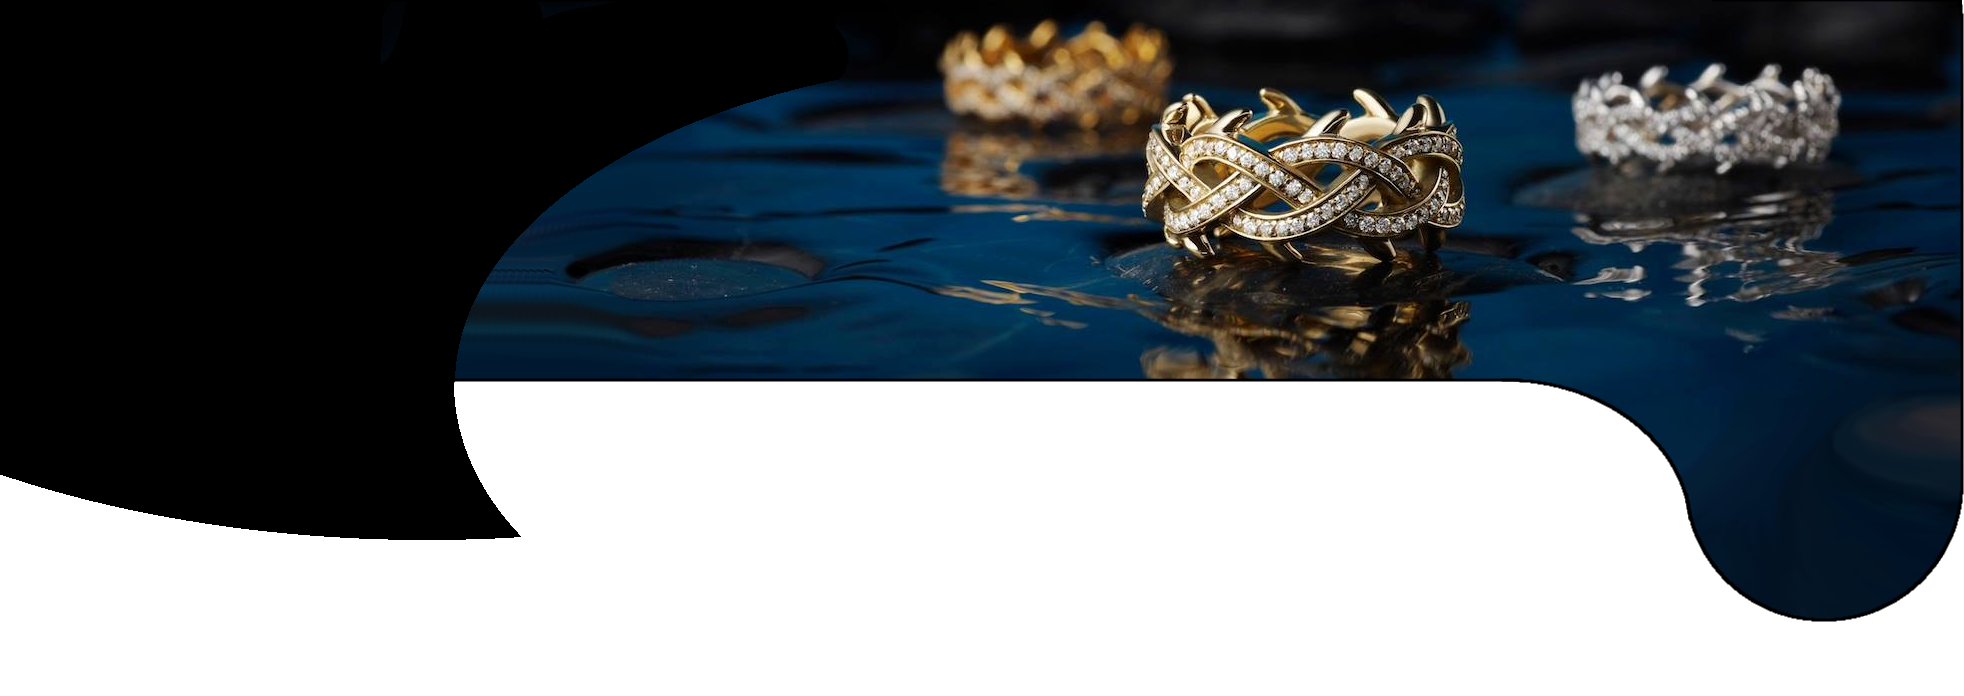
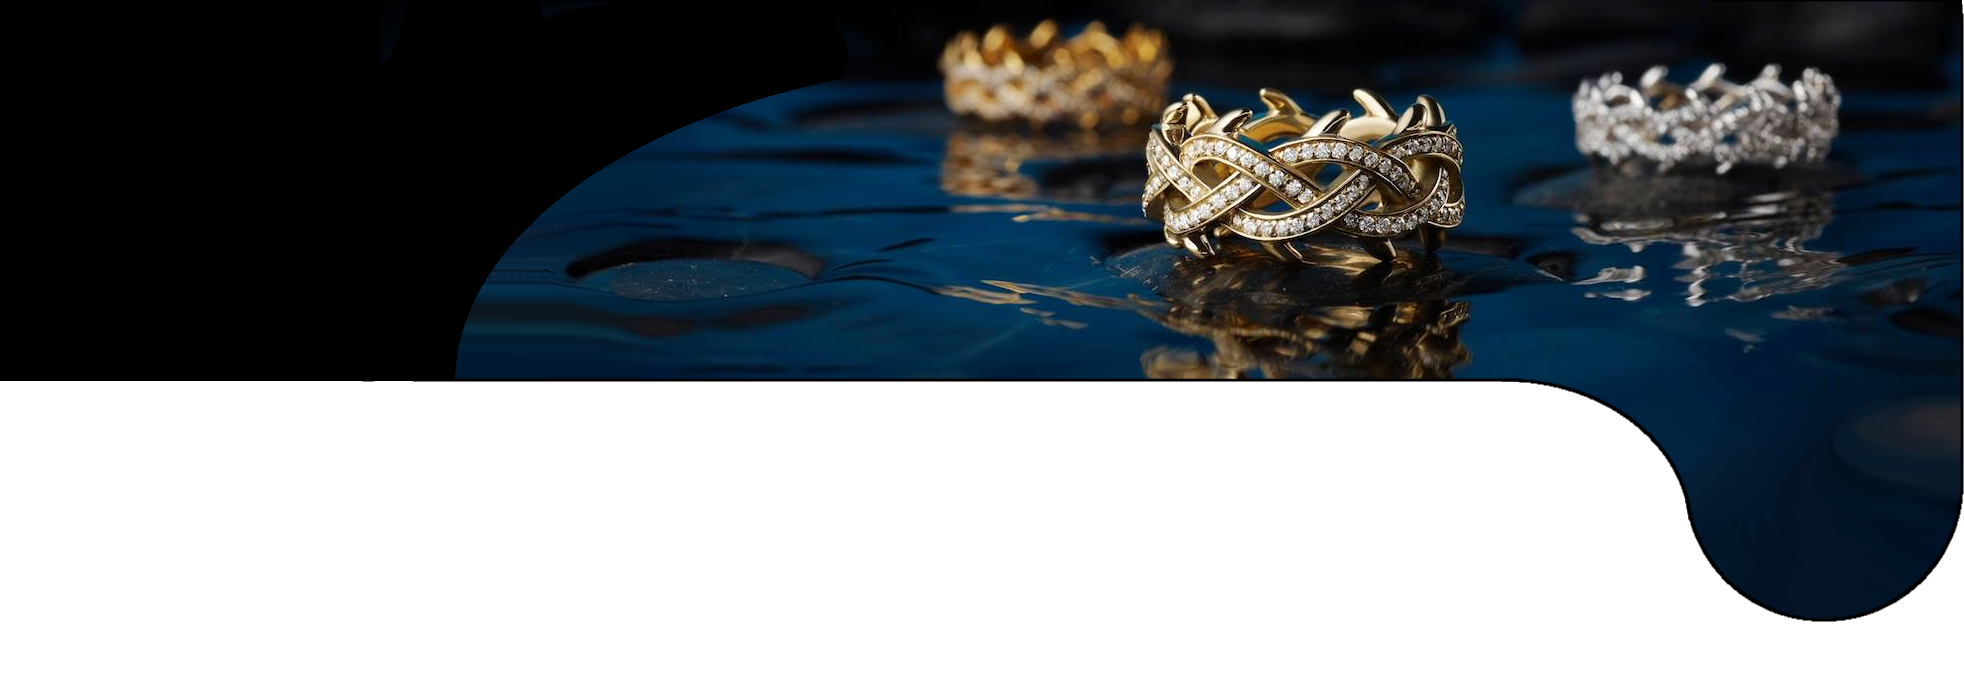
Imágen de header y menú acomodado para desktop

Changed region(s): [[0.0, 0.5431, 0.2795, 0.7845]]

diff --git a/estilos/style.css b/estilos/style.css
@@ -12,14 +12,36 @@ body {
 
 
 .header_img {
-	font-size: 0px;
-	background-image: url(../imagenes/header.png);
-	height: 590px;
-	width: auto;
-	background-position: center;
-	background-repeat: no-repeat;
-	background-size: 100%;
-	max-width: auto;
+	width: 100%;
+	height: 700px;
+	position: absolute;
+	top: 0;
+	left: 0;
+	z-index: -1;
+	background: url("../imagenes/header.png") top center no-repeat;
+	background-size: 100% auto;
+}
+
+header {
+	padding-bottom: 3%
+}
+
+@media ( max-width: 1190px ) {
+
+	.header_img {
+		background-image: url("../imagenes/header_mobile.png");
+		background-size: 1400px auto
+	}
+
+}
+
+@media ( max-width: 480px ) {
+
+	.header_img {
+		background-image: url("../imagenes/header_mobile.png");
+		background-size: 765px auto
+	}
+
 }
 
 .menu_desktop ul li a,
@@ -27,13 +49,18 @@ body {
 	font-family: 'Lexend Tera', sans-serif;
 	font-weight: 200;
 	text-transform:  uppercase;
-	color: black;
+	color: white;
 	text-decoration: none;
-	border:  1px solid black;
-	padding-top: 3px;
-	padding-bottom: 3px;
-	padding-right: 20px;
-	padding-left: 20px;
+	border: 1px solid white;
+	padding: 3px 20px;
+}
+
+@media ( max-width: 480px ) {
+
+	.item_menu a {
+		color: black;
+		border-color: black;
+	}
 
 }
 
@@ -45,22 +72,18 @@ body {
 .logo_img {
 	display: inline-block;
 	width:  100%;
-	text-align: center;
-	padding-top: 30px;
-	padding-bottom: 30px;
+	text-align: left;
+	padding: 2%;
 }
 
 .menu_y_carrito {
 	display:  flex;
-	justify-content: center;
+	justify-content: end;
+	padding-right:  5%;
 }
 
 .menu_desktop ul li {
 	display: inline-block;
-}
-
-header {
-	background-image: linear-gradient(to bottom, #ffddbf 0%, transparent 100%);
 }
 
 .boton_menu,
@@ -72,17 +95,19 @@ header {
 	border:  0;
 }
 
-.desplegable .item_menu:active {
-	background-color: transparent;
-}
-
 .menu_desktop a {
 	transition: color 0.4s ease-in-out, box-shadow 0.4s ease-in-out;
 }
 
 .menu_desktop a:hover {
-	box-shadow: inset 124px 0px 0px 20px black;
-	color: white;
+	box-shadow: inset 124px 0px 0px 20px white;
+	color: black;
+}
+
+.menu_desktop,
+.carrito_del_header {
+	padding-top: 5%;
+
 }
 
 

diff --git a/index.html b/index.html
@@ -21,9 +21,7 @@
 		<header>
 		<div class="header">
 
-			<div class= header_img>
-				<span>header</span>
-			</div>
+			<div class="header_img"><span>.</span></div>
 
 			<div class="logo_img">
 				<img src="imagenes/salem.jpg" alt="Salem Joyas" title="Salem Joyas"/>
@@ -49,11 +47,11 @@
 						</button>
 
 						<ul class="dropdown-menu desplegable">
-						    <li><button class="dropdown-item item_menu" type="button"><a href="#">inicio</a></button></li>
-						    <li><button class="dropdown-item item_menu" type="button"><a href="joyeria.html">joyeria</a></button></li>
-						    <li><button class="dropdown-item item_menu" type="button"><a href="preguntas.html">preguntas frecuentes</a></button></li>
-						    <li><button class="dropdown-item item_menu" type="button"><a href="nosotros.html">nosotros</a></button></li>
-						    <li><button class="dropdown-item item_menu" type="button"><a href="contactos.html">contacto</a></button></li>
+						    <li><a class="dropdown-item item_menu" href="#">Inicio</a></li>
+						    <li><a class="dropdown-item item_menu" href="joyeria.html">Joyeria</a></li>
+						    <li><a class="dropdown-item item_menu" href="preguntas.html">Preguntas frecuentes</a></li>
+						    <li><a class="dropdown-item item_menu" href="nosotros.html">Nosotros</a></li>
+						    <li><a class="dropdown-item item_menu" href="contactos.html">Contacto</a></li>
 						</ul>
 					</div>
 
